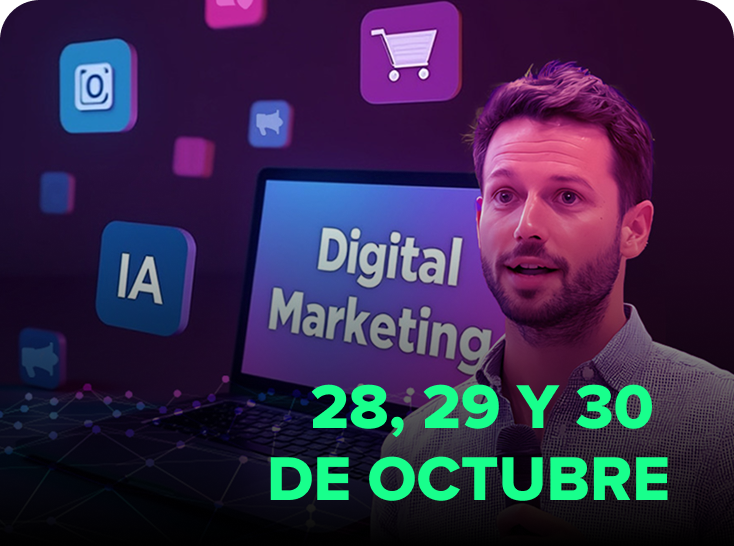
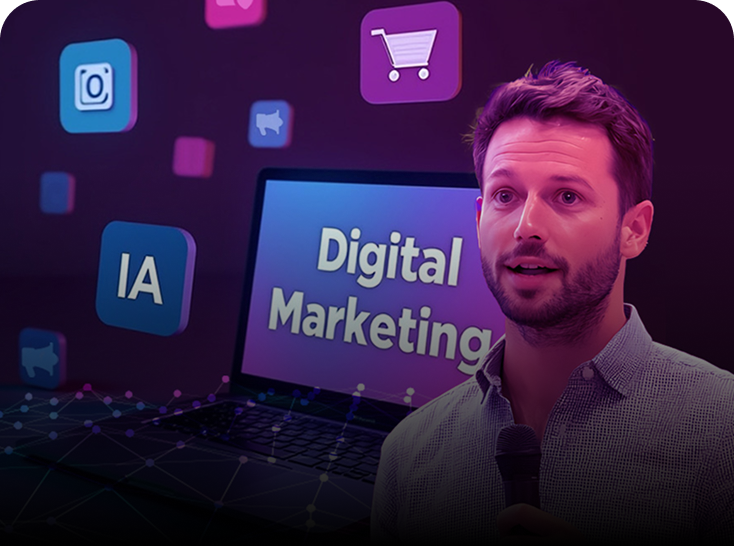
feat: home apply post content

Changed region(s): [[0.3597, 0.685, 0.9292, 0.9341]]

diff --git a/src/1.0.0/css/components/event-cards.css b/src/1.0.0/css/components/event-cards.css
@@ -189,7 +189,7 @@
   padding-left: 15px;
   position: absolute;
   left: -16px;
-  top: 45px;
+  bottom: 24px;
   background: #79f66e;
   color: #000000;
   font-weight: 900;
@@ -206,7 +206,7 @@
 }
 
 .ribbon__end.ribbon--short {
-  width: 85px;
+  width: 92px;
   padding-left: 30px;
 }
 
@@ -228,7 +228,7 @@
 .ribbon__end:after {
   height: 0;
   width: 0;
-  right: -11.5px;
+  right: -12.5px;
   border-top: 12px solid transparent;
   border-bottom: 21px solid transparent;
   border-left: 12px solid #79f66e;

diff --git a/src/1.0.0/css/general/buttons.css b/src/1.0.0/css/general/buttons.css
@@ -170,10 +170,13 @@
 }
 
 .emms__cta.inactive,
-.emms__cta.emms_cta--inactive {
+.emms__cta.emms__cta--inactive {
   background: #cccccc;
   pointer-events: none;
   color: #ffffff;
+  font-size: 16px;
+  line-height: 20px;
+  text-align: center;
 }
 
 /* La diferancia con inactive se que permite interactuar con los titles */

diff --git a/src/1.0.0/css/pages/home.css b/src/1.0.0/css/pages/home.css
@@ -100,6 +100,10 @@
   max-width: 590px;
 }
 
+.home-hero__title.home-hero__title--post p {
+  max-width: 614px;
+}
+
 .home-hero__title p {
   font-size: 16px;
   line-height: 24px;

diff --git a/components/digital-trends/post/home/hello-module.php b/components/digital-trends/post/home/hello-module.php
@@ -5,23 +5,22 @@
 $contents = [
   '/' => [
     'subheading' => 'TODAS LAS TENDENCIAS DE MARKETING DIGITAL EN UN SOLO LUGAR',
-    'heading' => '<span> Digital Trends 2025: ¡Está llegando!</span>',
-    'body' => 'Revoluciona tu forma de hacer negocios y potencia tus resultados con el mayor evento
-de Latam y España. Disfruta de dos ediciones exclusivas al año para capacitarte e inspirarte con referentes de tu industria.</a> ',
+    'heading' => '<span class="text--transparent"> Capacítate e inspírate </br> con el EMMS Digital Trends</span>',
+    'body' => 'Revoluciona tu forma de hacer negocios y potencia tus resultados con el mayor evento de Marketing Digital de Latam y España. Mientras esperas por la edición
+de E-commerce, revive el EMMS Digital Trends.',
     'ecommerceUrl' => '/ecommerce',
   ],
   '/registrado' => [
     'subheading' => 'TODAS LAS TENDENCIAS DE MARKETING DIGITAL EN UN SOLO LUGAR',
-    'heading' => '<span>¡YA ERES PARTE DEL EMMS 2025!</span>',
-    'body' => 'Revoluciona tu forma de hacer negocios y potencia tus resultados con el mayor evento
-de Latam y España. Disfruta de dos ediciones exclusivas al año para capacitarte e inspirarte con referentes de tu industria.',
+    'heading' => '<span class="text--transparent">¡Revive la experiencia Digital Trends 2025!</span>',
+    'body' => 'Te damos la bienvenida al evento que reúne a miles de profesionales en Latinoamérica y España. Aprende las últimas tendencias con speakers internacionales. ¡Revive gratis las conferencias!',
     'ecommerceUrl' => '/ecommerce-registrado',
   ],
   '/*' => [
     'subheading' => 'TODAS LAS TENDENCIAS DE MARKETING DIGITAL EN UN SOLO LUGAR',
-    'heading' => '<span> Digital Trends 2025: ¡Está llegando!</span>',
-    'body' => 'Revoluciona tu forma de hacer negocios y potencia tus resultados con el mayor evento
-de Latam y España. Disfruta de dos ediciones exclusivas al año para capacitarte e inspirarte con referentes de tu industria.</a> ',
+    'heading' => '<span class="text--transparent">Capacítate e inspírate </br> con el EMMS Digital Trends</span>',
+    'body' => 'Revoluciona tu forma de hacer negocios y potencia tus resultados con el mayor evento de Marketing Digital de Latam y España. Mientras esperas por la edición
+de E-commerce, revive el EMMS Digital Trends. ',
     'ecommerceUrl' => '/ecommerce',
   ],
 ];
@@ -40,10 +39,10 @@ $cards[] = renderEventCard([
   'imageSrc' => '/src/img/home/card-image-digitaltrends-post.png',
   'imageAlt' => 'Image Digital Trends',
   'title' => 'EMMS Digital Trends',
-  'description' => 'Descubre las últimas innovaciones en Marketing Digital aplicadas por las empresas que marcan tendencia en la industria. Conferencias, Entrevistas, Casos de Éxito, Workshops y mucho más. ¡Reserva tu lugar ahora!',
-  'buttonText' => $isRegistered ?  'ACCEDE AL EVENTO' : 'REGÍSTRATE GRATIS',
+  'description' => 'Las principales figuras del Marketing Digital compartieron tendencias y estrategias que aplican las empresas líderes de la industria. Revive gratis todas las conferencias de la última edición.',
+  'buttonText' => $isRegistered ?  'REVIVELO AHORA' : 'REVIVELO AHORA',
   'buttonLink' => $isRegistered ? '/digital-trends-registrado' : '/digital-trends',
-  'ribbonText' => '',
+  'ribbonText' => 'EVENTO FINALIZADO',
   'isShortRibbon' => false,
   'isRegistered' => $isRegistered,
   'spanText' =>  'ONLINE Y GRATUITO',
@@ -55,23 +54,22 @@ $cards[] = renderEventCard([
   'imageSrc' => '/src/img/home/card-image-ecommerce-post.png',
   'imageAlt' => 'Ecommerce image',
   'title' => 'EMMS E-commerce',
-  'description' => 'Referentes internacionales de la industria
-te contarán las tendencias y Estrategias que emplean en sus Tiendas Online para captar nuevos clientes y aumentar sus ingresos. ¡Revive la última edición!',
-  'buttonText' => $isRegistered ? 'REVÍVELO AHORA' : 'REVÍVELO AHORA',
+  'description' => 'Referentes internacionales de la industria te contarán las tendencias y estrategias que emplean en sus Tiendas Online para captar nuevos clientes y aumentar sus ingresos.',
+  'buttonText' => $isRegistered ? 'PRÓXIMAMENTE' : 'PRÓXIMAMENTE',
   'buttonLink' => $isRegistered ? '/ediciones-anteriores-registrado#ediciones-anteriores' : '/ediciones-anteriores#ediciones-anteriores',
-  'ribbonText' => '',
-  'isShortRibbon' => false,
+  'ribbonText' => 'MUY PRONTO',
+  'isShortRibbon' => true,
   'isRegistered' => false,
   'spanText' => 'ONLINE Y GRATUITO',
-  'spanExtraClass' => 'ribbon--coming-soon',
-  'buttonType' => 'secondary',
+  'spanExtraClass' => '',
+  'buttonType' => 'disabled',
 ], $ecommerceStates);
 
 ?>
 
 <!-- Hero -->
 <section class="home-hero home-hero--digitaltrends">
-  <div class="home-hero__title emms__fade-top">
+  <div class="home-hero__title home-hero__title--post emms__fade-top">
     <h1><em> <?php echo ($content['subheading']); ?></em> <?php echo ($content['heading']); ?>
     </h1>
     <h2>ONLINE Y GRATUITO</h2>

diff --git a/components/digital-trends/post/central-video.php b/components/digital-trends/post/central-video.php
@@ -1,48 +1,53 @@
 <?php
+include_once($_SERVER['DOCUMENT_ROOT'] . '/components/helpers/urlHelper.php');
+
+$normalizedUrl = getNormalizeUrl();
 
 $contents = [
   '/' => [
-    'heading' => '¡Vuelve el EMMS Digital Trends!',
-    'body' => '¿Buscas inspiración real, aprendizajes concretos y un espacio para potenciar tu Estrategia? Este evento reúne a las empresas y figuras que están transformando el presente y futuro del Marketing Digital. ¡No te lo pierdas!
-',
-    'button' => 'ASEGURA TU LUGAR GRATIS',
+    'heading' => '¿No pudiste asistir? Aquí se reunieron las principales figuras del Marketing Digital',
+    'body' => 'Descubre por qué miles de profesionales y referentes de la industria eligieron el EMMS Digital Trends para capacitarse.',
+    'button' => 'REVÍVELO GRATIS',
     'link' => 'digital-trends#registro',
     'youtubeCode' => 'rTImzuky-LE',
   ],
   '/digital-trends' => [
-    'heading' => '¿Qué esperas para inscribirte?',
-    'body' => 'Mira este video y descubre por qué el EMMS Digital Trends es el evento clave para transformar tus Estrategias de Marketing Digital, de la mano de especialistas del sector.',
-    'button' => 'INSCRÍBETE AHORA',
+    'heading' => 'Súmate al evento más convocante de Marketing Digital',
+    'body' => 'Mira este video y conoce por qué miles de profesionales de habla hispana eligen capacitarse en el EMMS Digital Trends.',
+    'button' => 'REGÍSTRATE GRATIS',
     'link' => '#registro',
     'youtubeCode' => 'rTImzuky-LE',
   ],
   '/registrado' => [
-    'heading' => '¡Vuelve el EMMS Digital Trends!',
-    'body' => '¿Buscas inspiración real, aprendizajes concretos y un espacio para potenciar tu Estrategia? Este evento reúne a las empresas y figuras que están transformando el presente y futuro del Marketing Digital. ¡No te lo pierdas!',
+    'heading' => '¿No pudiste asistir? Aquí se reunieron las principales figuras del Marketing Digital',
+    'body' => 'Descubre por qué miles de profesionales y referentes de la industria eligieron el EMMS Digital Trends para capacitarse.',
     'youtubeCode' => 'isDPHOi2mAs',
   ],
   '/*' => [
-    'heading' => '¡Vuelve el EMMS Digital Trends!',
-    'body' => '¿Buscas inspiración real, aprendizajes concretos y un espacio para potenciar tu Estrategia? Este evento reúne a las empresas y figuras que están transformando el presente y futuro del Marketing Digital. ¡No te lo pierdas!
-',
-    'button' => 'ASEGURA TU LUGAR GRATIS',
+    'heading' => '¿No pudiste asistir? Aquí se reunieron las principales figuras del Marketing Digital',
+    'body' => 'Descubre por qué miles de profesionales y referentes de la industria eligieron el EMMS Digital Trends para capacitarse.',
+    'button' => 'REVÍVELO GRATIS',
     'link' => 'digital-trends#registro',
     'youtubeCode' => 'rTImzuky-LE',
   ],
 ];
 
-
-include_once($_SERVER['DOCUMENT_ROOT'] . '/components/helpers/urlHelper.php');
-$normalizedUrl = getNormalizeUrl();
 $content = $contents[$normalizedUrl] ?? $contents['/*'];
 
 $youtubeBaseUrl = "https://www.youtube.com/embed/";
 $youtubeParams = "?controls=0&modestbranding=1&rel=0&fs=0&disablekb=1&autoplay=0&loop=1";
 $videoUrl = $youtubeBaseUrl . $content['youtubeCode'] . $youtubeParams;
 
+$sectionClasses = ['centralvideo'];
+
+if ($normalizedUrl === '/digital-trends') {
+  $sectionClasses[] = 'centralvideo--background';
+}
+
+$sectionClassString = implode(' ', $sectionClasses);
 ?>
 
-<section class="centralvideo">
+<section class="<?php echo $sectionClassString; ?>">
   <div class="emms__container--lg emms__container--lg--column">
     <?php if (!empty($content['heading']) || !empty($content['body'])): ?>
       <div class="centralvideo__title emms__fade-in">
@@ -56,7 +61,7 @@ $videoUrl = $youtubeBaseUrl . $content['youtubeCode'] . $youtubeParams;
     <?php endif; ?>
 
     <div class="centralvideo__video emms__fade-in">
-      <iframe width="560" height="315" src="<?php echo $videoUrl ?>" frameborder="0" allowfullscreen></iframe>
+      <iframe width="560" height="315" src="<?php echo $videoUrl; ?>" frameborder="0" allowfullscreen></iframe>
     </div>
 
     <?php if (!empty($content['link']) || !empty($content['button'])): ?>

diff --git a/components/sponsorsList.php b/components/sponsorsList.php
@@ -3,8 +3,15 @@
 include_once($_SERVER['DOCUMENT_ROOT'] . '/components/helpers/urlHelper.php');
 $normalizedUrl = getNormalizeUrl();
 
-function getSponsorsContent($url)
+function getSponsorsContent($url, $isPost)
 {
+  if ($isPost) {
+    return [
+      'title' => 'Nuestros aliados en el EMMS Digital Trends',
+    ];
+  }
+
+
   $blocks = [
     '/digital-trends' => [
       'title' => 'Nos acompañan en esta edición',
@@ -20,7 +27,7 @@ function getSponsorsContent($url)
   return $blocks[$url] ??  $blocks['/*'];
 }
 
-$content = getSponsorsContent($normalizedUrl);
+$content = getSponsorsContent($normalizedUrl, $isPost);
 $db = new DB(DB_HOST, DB_USER, DB_PASSWORD, DB_NAME);
 
 if (!$db->hasActiveSponsor()) {
@@ -70,12 +77,20 @@ foreach ($sponsorTypes as $type => $config) {
     <?php endforeach; ?>
 
     <!-- FAQ Link -->
-    <p class="companies__body">
-      ¿Quieres ser aliado del EMMS 2025? ¡Hablemos! <br>
-      Escríbenos a <a href="mailto:partners@fromdoppler.com" class="companies__body-link">partners@fromdoppler.com </a> y te contamos cómo sumarte al evento
-      <a href="/sponsors-promo" class="emms__cta emms__cta--secondary">QUIERO SER ALIADO</a>
-    </p>
+    <?php if ($isPost): ?>
+      <p class="companies__body">
+        ¿Tienes preguntas sobre el EMMS? <a href="<?= htmlspecialchars($faqLink) ?>" class="companies__body-link">Haz clic aquí</a> y
+        encuentra las <br>  preguntas más frecuentes sobre el evento.
+      </p>
+    <?php else: ?>
+      <p class="companies__body">
+        ¿Quieres ser aliado del EMMS 2025? ¡Hablemos! <br>
+        Escríbenos a <a href="mailto:partners@fromdoppler.com" class="companies__body-link">partners@fromdoppler.com </a> y te contamos cómo sumarte al evento
+        <a href="/sponsors-promo" class="emms__cta emms__cta--secondary">QUIERO SER ALIADO</a>
+      </p>
+    <?php endif; ?>
   </div>
+
 </section>
 
 <script>

diff --git a/components/digital-trends/post/faqs.php b/components/digital-trends/post/faqs.php
@@ -9,8 +9,8 @@ $faqItems = [
     "answer" => "Con tu registro podrás acceder a todas las Conferencias de esta y todas las ediciones anteriores para siempre. Además, podrás acceder a una biblioteca repleta de recursos como E-books, Plantillas, descuentos y material audiovisual para que puedas hacer crecer tu negocio aún más."
   ],
   [
-    "question" => "📅 ¿Cuándo se realizará el EMMS 2025?",
-    "answer" => "El EMMS 2025 tiene 2 ediciones:  Digital Trends, que tendrá lugar el 28, 29 y 30 de octubre de 2025 y E-commerce, que se celebró el 28 y 29 de abril de 2025. Registrándote al evento recibirás por Email todos las novedades."
+    "question" => "📅 ¿Cuándo se realizará el EMMS 2026?",
+    "answer" => "El EMMS 2026 tendrá dos ediciones: el EMMS E-commerce y el EMMS Digital Trends. Registrándote al evento recibirás por Email todas las novedades."
   ],
   [
     "question" => "📍 ¿Dónde serán los eventos?",
@@ -22,7 +22,7 @@ $faqItems = [
   ],
   [
     "question" => "✍ ¿Puedo apuntarme a más de una edición?",
-    "answer" => "Por ahora, puedes registrarte de forma gratuita en el EMMS Digital Trends, que tendrá lugar en octubre de 2025. Cuando se acerque la fecha del EMMS E-commerce 2026, te avisaremos por Email para que no te pierdas nada :)"
+    "answer" => "Por ahora, puedes revivir de forma gratuita el EMMS Digital Trends 2025, que se realizó del 28 al 30 de octubre de 2025, y todas las ediciones anteriores. Cuando se acerque la fecha del EMMS E-commerce 2026, te avisaremos por Email para que no te pierdas nada."
   ],
   [
     "question" => "💻 ¿Cómo accedo a la transmisión del EMMS si ya me registré?",

diff --git a/components/digital-trends/post/speakers-carousel.php b/components/digital-trends/post/speakers-carousel.php
@@ -228,8 +228,12 @@ $speakersEcommerce = [
       renderSpeakersList($speakersEcommerce, "carousel-2");
     endif; ?>
 
-    <?php if ($block['block'] === 'home') : ?>
-      <a href="/digital-trends" class="emms__cta emms__cta--md  emms__fade-in">REGÍSTRATE GRATIS</a>
+    <?php if ($block['block'] === 'home' || $block['block'] === 'registerHome') : ?>
+      <p class="emms__fade-in speakers__sub-title">Pronto conocerás la agenda del EMMS E-commerce 2026</p>
+      <p class="emms__fade-in">Mantente pendiente a tu correo electrónico para descubrir a los speakers que nos acompañarán </br>
+        en el próximo evento. Mientras tanto, disfruta de las mejores
+        conferencias de ediciones pasadas.</p>
+      <a href="/digital-trends" class="emms__cta emms__cta--md  emms__fade-in">REVIVE EDICIONES ANTERIORES</a>
     <?php elseif ($block['block'] === 'digital-trends') : ?>
       <p class="emms__fade-in speakers__sub-title">¡Muy pronto conocerás la agenda 2025! Regístrate gratis y descúbrela antes que nadie.
       </p>

diff --git a/components/digital-trends/post/companies-list.php b/components/digital-trends/post/companies-list.php
@@ -42,10 +42,11 @@ $block = getGridBlock($normalizedUrl);
 
         <?php if ($block['block'] === 'none') : ?>
         <?php elseif ($block['block'] === 'CtaBlock') : ?>
-            <p class="companies__body">
-                ¿Quieres ser aliado del EMMS 2025? ¡Hablemos! <br>
-                Escríbenos a <a href="mailto:partners@fromdoppler.com">partners@fromdoppler.com</a>
-            </p>
+          <p class="companies__body">
+            ¿Quieres ser aliado del EMMS 2026? ¡Hablemos! <br>
+            Escríbenos a <a href="mailto:partners@fromdoppler.com" class="companies__body-link">partners@fromdoppler.com </a> y te contamos cómo sumarte al evento
+          </p>
+          <a href="/sponsors-promo" class="emms__cta emms__cta--secondary">QUIERO SER ALIADO</a>
         <?php endif; ?>
 
 

diff --git a/pages/digital-trends/post/home-registrado.php b/pages/digital-trends/post/home-registrado.php
@@ -23,7 +23,7 @@ require_once($_SERVER['DOCUMENT_ROOT'] . '/utils/cacheSettings.php');
     <?php include($_SERVER['DOCUMENT_ROOT'] . '/components/digital-trends/post/speakers-carousel.php') ?>
     <?php include($_SERVER['DOCUMENT_ROOT'] . '/components/digital-trends/post/users-comments.php') ?>
     <?php include($_SERVER['DOCUMENT_ROOT'] . '/components/digital-trends/post/faqs.php') ?>
-    <?php include($_SERVER['DOCUMENT_ROOT'] . '/components/sponsorsList.php') ?>
+    <?php include($_SERVER['DOCUMENT_ROOT'] . '/components/digital-trends/post/companies-list.php') ?>
   </main>
   <?php include($_SERVER['DOCUMENT_ROOT'] . '/components/footer.php'); ?>
 </body>

diff --git a/pages/digital-trends/post/home.php b/pages/digital-trends/post/home.php
@@ -25,7 +25,7 @@ require_once($_SERVER['DOCUMENT_ROOT'] . '/utils/cacheSettings.php');
     <?php include($_SERVER['DOCUMENT_ROOT'] . '/components/digital-trends/post/speakers-carousel.php') ?>
     <?php include($_SERVER['DOCUMENT_ROOT'] . '/components/digital-trends/post/users-comments.php') ?>
     <?php include($_SERVER['DOCUMENT_ROOT'] . '/components/digital-trends/post/faqs.php') ?>
-    <?php include($_SERVER['DOCUMENT_ROOT'] . '/components/sponsorsList.php') ?>
+    <?php include($_SERVER['DOCUMENT_ROOT'] . '/components/digital-trends/post/companies-list.php') ?>
   </main>
   <?php include($_SERVER['DOCUMENT_ROOT'] . '/components/footer.php'); ?>
 

diff --git a/components/event-card.php b/components/event-card.php
@@ -17,7 +17,7 @@ function renderButton($buttonData, $eventState)
             $class .= ' emms__cta--secondary';
             break;
         case 'disabled':
-            $class .= ' emms_cta--inactive';
+            $class .= ' emms__cta--inactive';
             break;
     }
 
@@ -43,7 +43,7 @@ function renderEventCard($eventData, $eventState)
         'isShortRibbon' => '',
         'isRegistered' => '',
         'spanText' => '',
-        'spanExtraClass' => '',
+        'spanExtraClass' => '', //ribbon--coming-soon
         'buttonType' => 'primary',
     );
 
